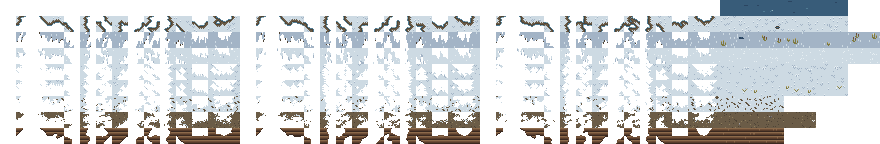
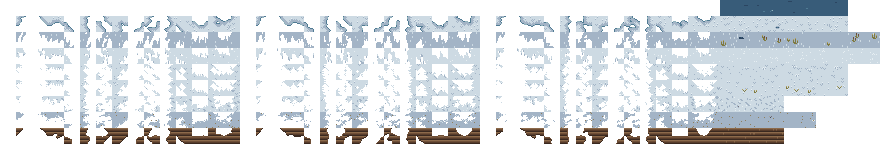
Paths: snow covers a path, and its trodden snow shows as a faint track
Over the snow WorldView draws the trodden grass in its snow look on worn
tiles (the SnowTrackLook overlay); in that look the bare earth of trodden
grass is blue-grey, so the track reads as footprints in the snow.

Changed region(s): [[0.0, 0.6667, 0.9511, 0.8889], [0.0, 0.1111, 0.8284, 0.2222], [0.7977, 0.6667, 0.8284, 0.6944]]

diff --git a/tools/art/seasons.py b/tools/art/seasons.py
@@ -152,6 +152,10 @@ GROUND_REMAPS = {
 # What decoration tufts and plants turn into: dry stalks from the bare look on.
 STANDING = {"bare": WINTER_STALKS, "frost": _FROST_STALKS, "snow": WINTER_STALKS, "dusting": _FROST_STALKS}
 
+# Snow on a desire path is trodden: the game draws the trodden grass in its snow look over the
+# snow, and its bare earth shows as blue-grey footprints.
+_TRODDEN_SNOW = {"mud": "snow_shadow", "mud_dark": "snow_shadow"}
+
 _SHADOW_REMAPS = {
     "spring": "green_deep", "summer": "green_deep", "autumn": "green_deep",
     "bare": "mud_dark", "frost": "mud_dark", "snow": "snow_shadow", "dusting": "mud_dark",
@@ -314,14 +318,15 @@ def dust(tile, rng):
 
 def terrain_rows(look, rows):
     """The terrain rows in a look. A frost gets a sprinkle of rime, a dusting is the snow thinned
-    out; the rest is `ground_rows`."""
+    out; the rest is `ground_rows`. Under snow, the bare patches of trodden grass are footprints
+    (see `_TRODDEN_SNOW`)."""
     if look == "dusting":
         snowy = ground_rows("snow", rows)
         return [snowy[0]] + [
             [dust(tile, random.Random(f"dust-{r}-{c}")) for c, tile in enumerate(row)]
             for r, row in enumerate(snowy[1:])
         ]
-    result = ground_rows(look, rows)
+    result = ground_rows(look, rows, _TRODDEN_SNOW if look == "snow" else None)
     if look == "frost":
         for r, row in enumerate(result[1:]):
             for c, tile in enumerate(row):
